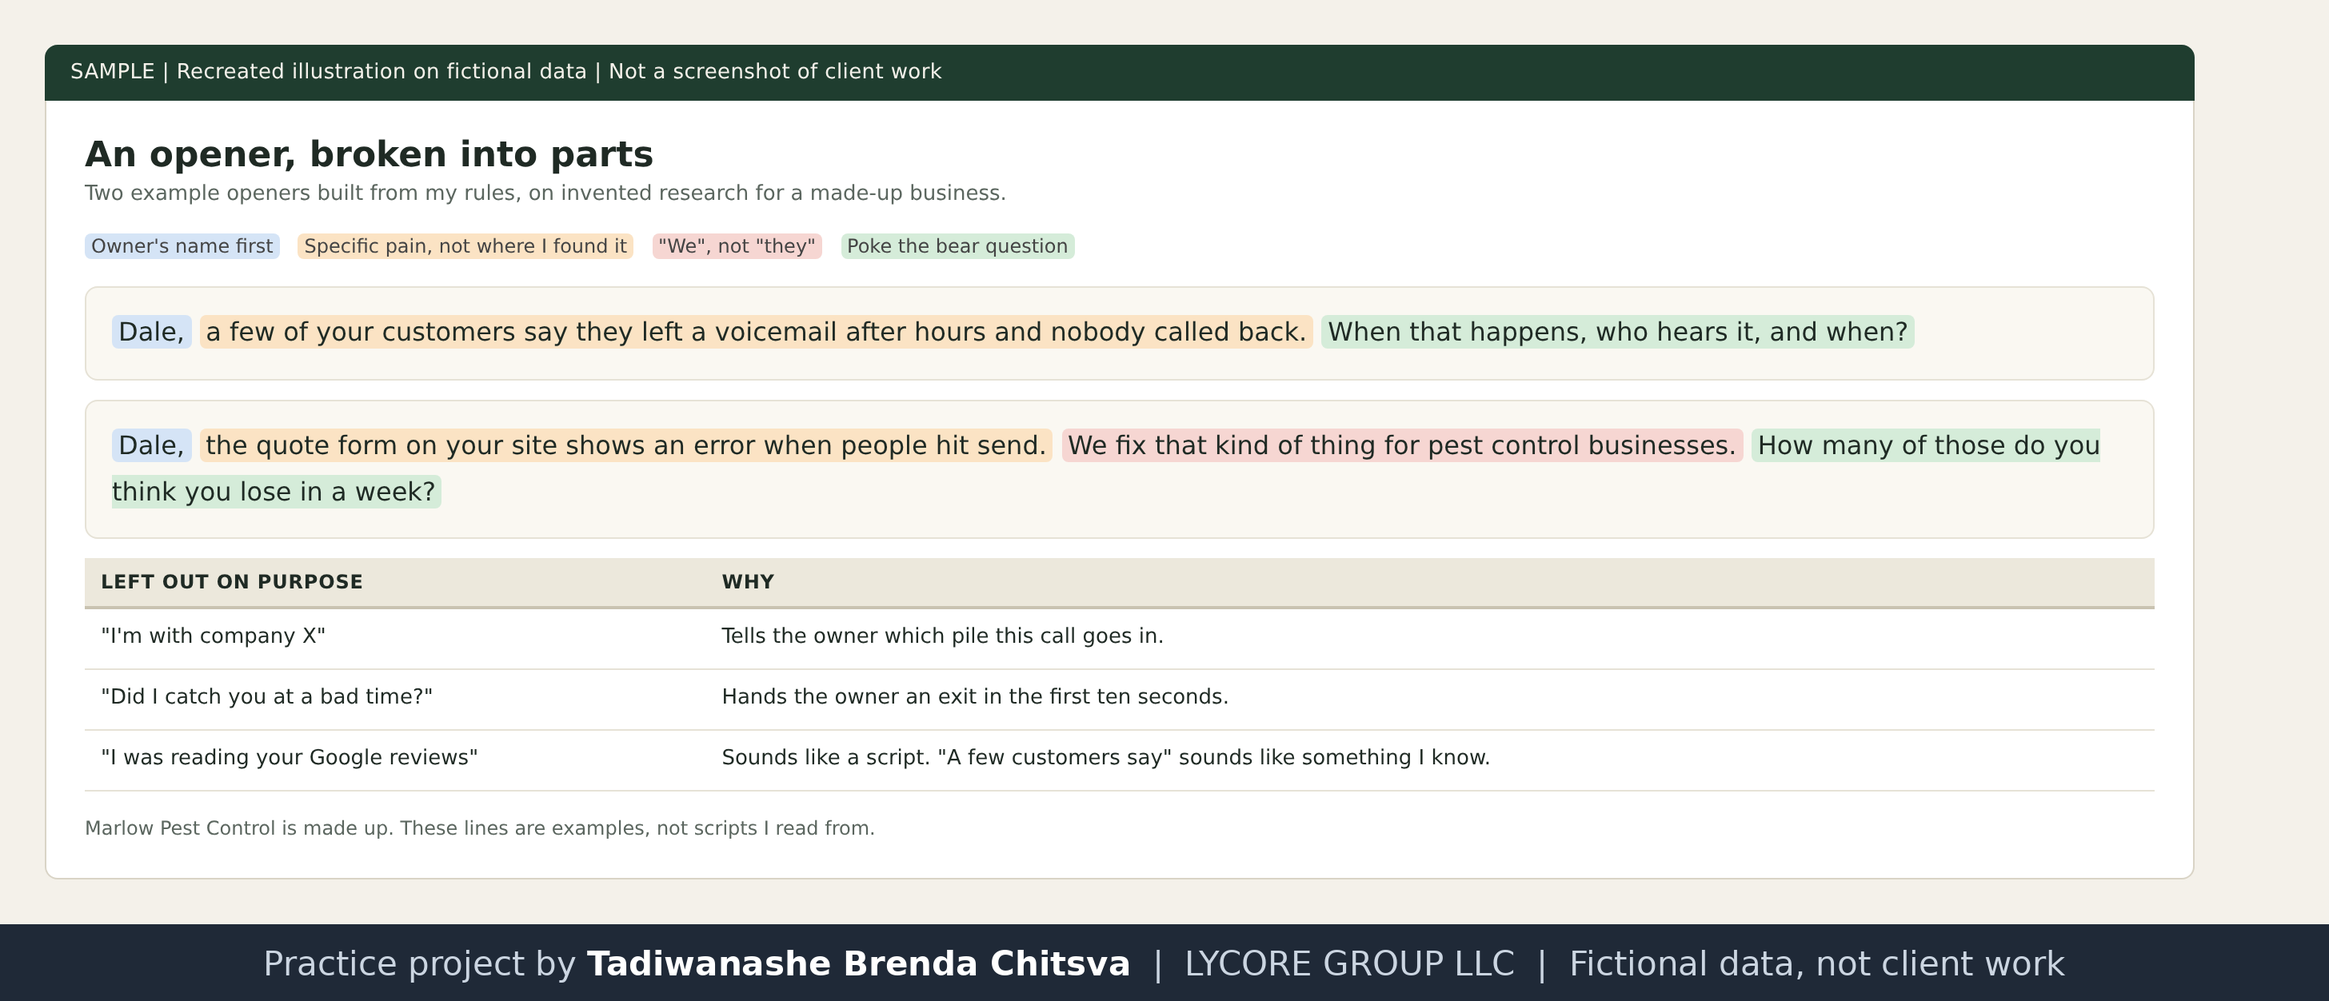
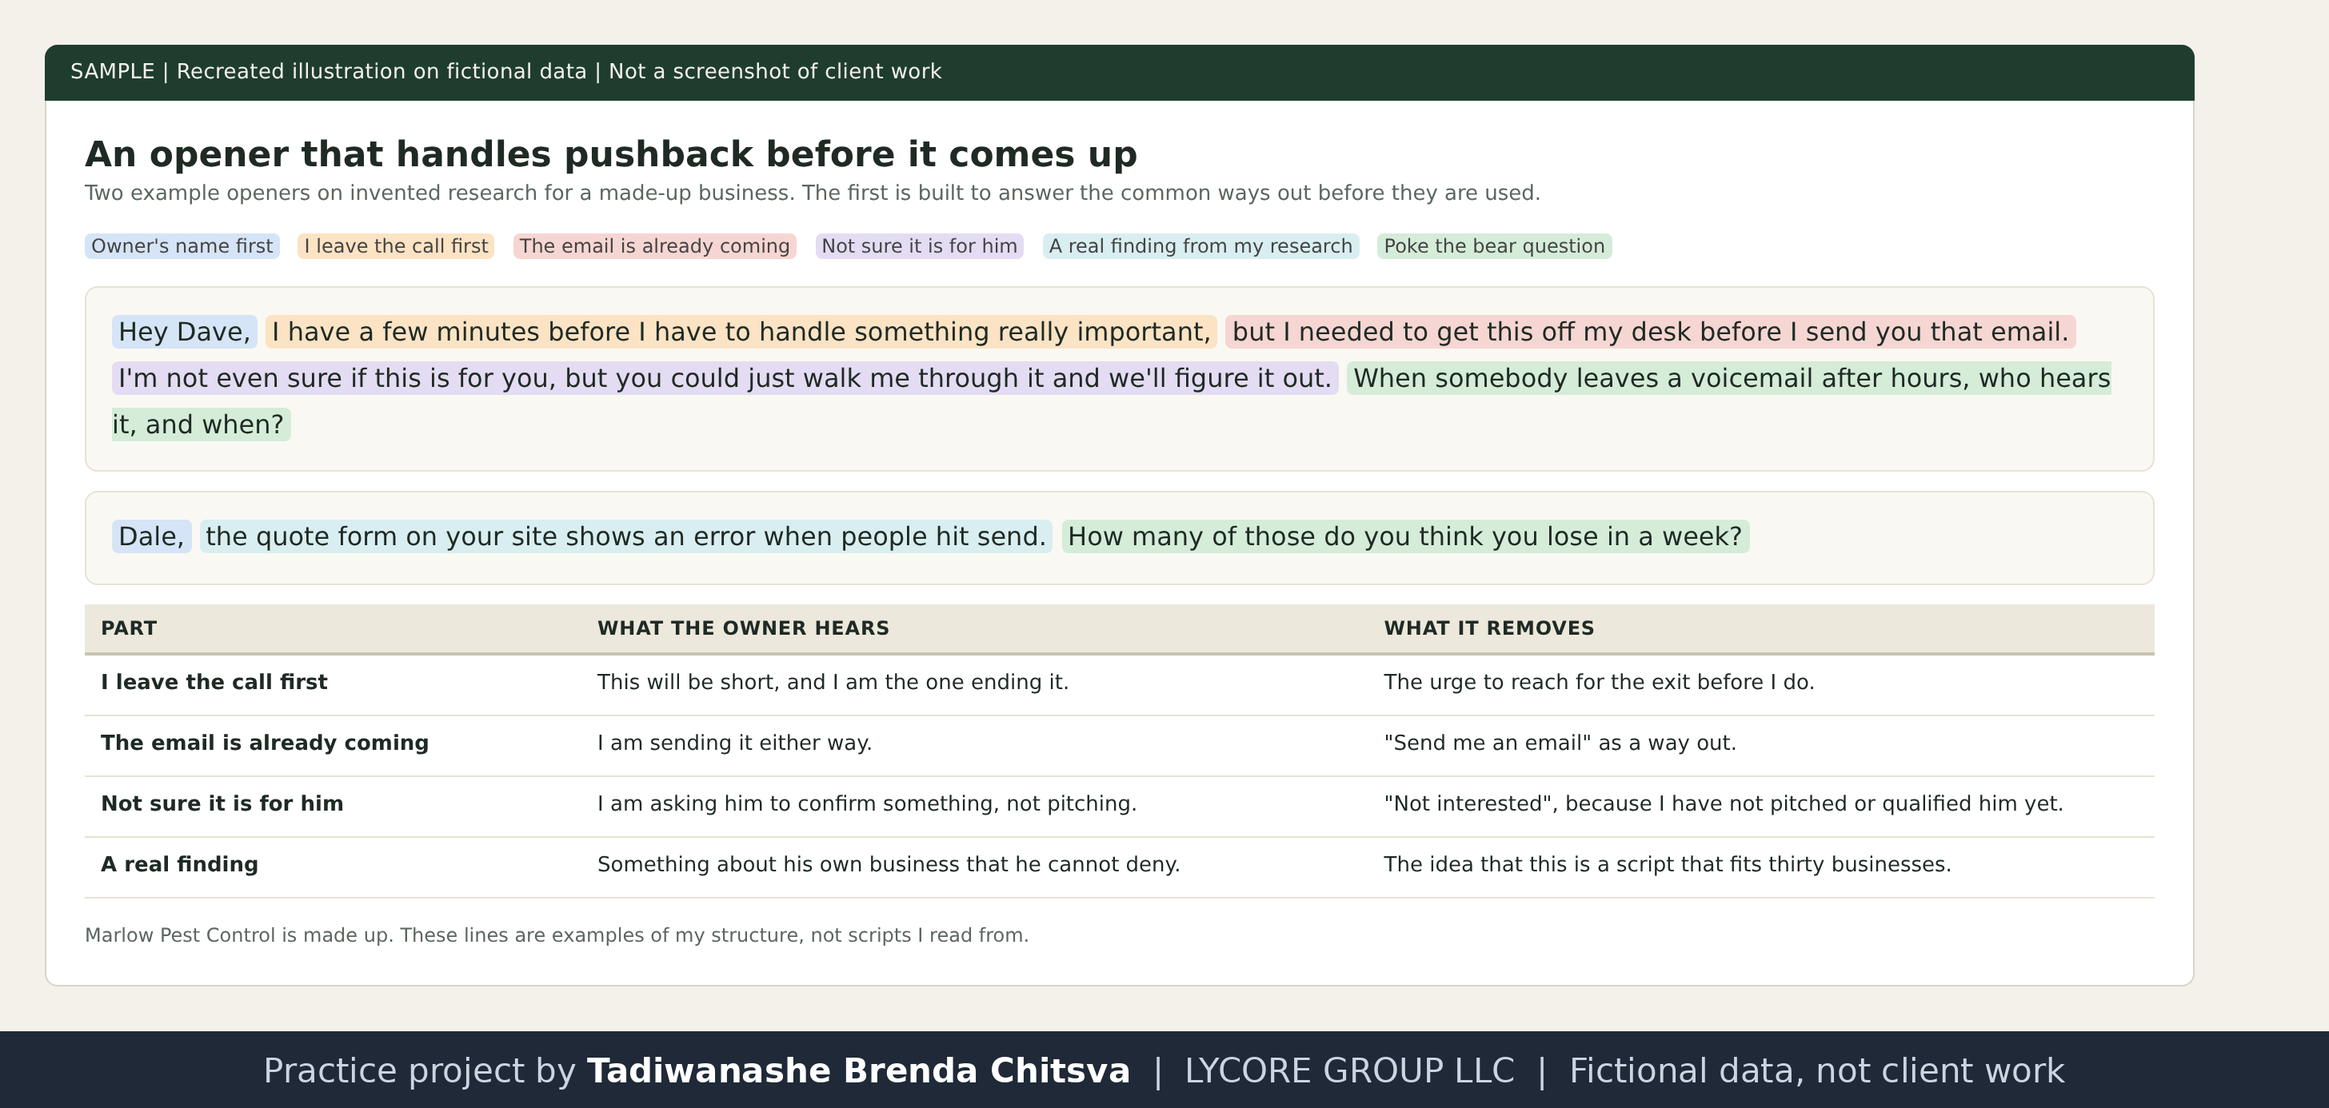
Improve sales and assistant portfolios: opener structure, enrichment, pushback replies, first questions
Claude-Session: https://claude.ai/code/session_01X1Efn6wUHyVAvhz7pDCFFg

diff --git a/projects/sales-03-openers-and-gatekeepers.md b/projects/sales-03-openers-and-gatekeepers.md
@@ -2,24 +2,32 @@
 
 Method page. The business, the owner and the examples are made up for this page. The rules are mine. This is not a results report. See [why these projects use made-up data](../CONFIDENTIALITY.md).
 
-## My rules for an opener
+## What I do: answer the pushback before it comes up
+Most calls end because the person has an easy way out in the first ten seconds. So the opener is built to take those exits away before they are used. Here is the structure, on a made-up owner:
+
+"Hey Dave, I have a few minutes before I have to handle something really important, but I needed to get this off my desk before I send you that email. I'm not even sure if this is for you, but you could just walk me through it and we'll figure it out."
+
+![An opener broken into its parts](../assets/sales-s5-opener-anatomy.png)
+Recreated illustration. Marlow Pest Control is made up.
+
+What each part does:
+1. **I leave the call first.** I tell him I have a few minutes, so I am the one who will end the call. He does not need to reach for the exit before I do.
+2. **The email is already coming.** I say I am about to send him that email, so "send me an email" is not available as a way out. The email is already on its way.
+3. **I am not sure it is for him.** I have not pitched him and I have not qualified him, so "not interested" has nothing to push against. I am asking him to confirm something for me, not to buy something.
+
+Then comes one question from my research, a poke the bear question about something real. See [research before the call](sales-02-research-before-the-call.md). When a client gives me a script, I keep to it and shape the first line inside it.
+
+## More rules for an opener
 1. **Name first.** I start with the owner's real name, found in my research, so the first thing they hear is their own name.
 2. **No company name up front.** An opener that starts with "I'm with company X" is burned. The owner has heard it dozens of times and stops listening at the company name.
 3. **Name the specific pain.** I say what customers are saying, not where I found it. "A few of your customers say they left a voicemail and nobody called back" sounds like something I know. "I was reading your Google reviews" sounds like a script.
 4. **Say we, not they.** When I describe what we do, I say we. I do not create distance between me and the work.
-5. **Test it with a poke the bear question.** Something real and a little uncomfortable, asked plainly, about the problem I found.
 
 ## Gatekeepers
 I open as if the owner picked up. I use the owner's researched name and the specific thing I am calling about, in the tone of an ordinary call. I do not ask permission to speak to anyone, I do not negotiate, and I do not accept the first no. A receptionist's no is a routine filter. It is not a decision the owner made.
-
-## Example on a made-up business
-![An opener broken into its parts](../assets/sales-s5-opener-anatomy.png)
-Recreated illustration. Marlow Pest Control is made up.
-
-The two lines in the picture are examples built from my rules on invented research. They are not scripts I read from.
 
 ## What I avoid and why
 The reasons are on the page [lines I avoid and why](sales-07-lines-i-avoid-and-why.md). In short, each line I avoid either hands the owner an easy exit in the first ten seconds, or tells them I am one more pitch.
 
 ## Honest level
-Openers and gatekeeper handling are how I call. I have placed cold calls to US service businesses. I have no conversion numbers to show.
+Openers and gatekeeper handling are how I call. I have placed cold calls to US service businesses. I have no conversion numbers to show, and the lines on this page are examples of my structure on made-up people.

diff --git a/README.md b/README.md
@@ -59,10 +59,10 @@ Seven method pages on how I prepare for and run cold calls to service businesses
 | Project | What it shows |
 | --- | --- |
 | [Mindset and posture before I dial](projects/sales-01-mindset-and-posture.md) | Why I go in as a helper, pacing to the person, three buyer states |
-| [Research before the call](projects/sales-02-research-before-the-call.md) | A research card on a made-up business: customer words, unanswered reviews, broken things, one poke the bear question |
-| [Openers and gatekeepers](projects/sales-03-openers-and-gatekeepers.md) | Five opener rules and how I treat a gatekeeper's first no |
+| [Research before the call](projects/sales-02-research-before-the-call.md) | How I enrich the data, a research card on a made-up business, and the tools I use |
+| [Openers and gatekeepers](projects/sales-03-openers-and-gatekeepers.md) | An opener that answers the common ways out before they are used, and how I treat a gatekeeper's first no |
 | [Discovery and product pivots](projects/sales-04-discovery-and-product-pivots.md) | Listening, question types in order, moving to a second product honestly |
-| [Objections](projects/sales-05-objections.md) | What common objections often hide and what my follow up question looks for |
+| [Objections](projects/sales-05-objections.md) | What common objections hide, my replies in my own words, and what I learn from the calls |
 | [Value first for busy owners](projects/sales-06-value-first-and-busy-owners.md) | Four meeting free ways to give value before asking for anything |
 | [Lines I avoid, and why](projects/sales-07-lines-i-avoid-and-why.md) | For each line: what it makes the person feel and what hurdle it creates |
 
@@ -72,7 +72,7 @@ Seven method pages on how I prepare for and run cold calls to service businesses
 | --- | --- | --- |
 | [![Research card](assets/sales-s1-research-card.png)](projects/sales-02-research-before-the-call.md) | [![Call flow](assets/sales-s2-call-flow.png)](projects/sales-04-discovery-and-product-pivots.md) | [![Objection map](assets/sales-s3-objection-map.png)](projects/sales-05-objections.md) |
 | [![Lines I avoid](assets/sales-s4-lines-i-avoid.png)](projects/sales-07-lines-i-avoid-and-why.md) | [![Opener anatomy](assets/sales-s5-opener-anatomy.png)](projects/sales-03-openers-and-gatekeepers.md) | [![Value ladder](assets/sales-s6-value-ladder.png)](projects/sales-06-value-first-and-busy-owners.md) |
-| [![Buyer states](assets/sales-s7-buyer-states.png)](projects/sales-01-mindset-and-posture.md) | | |
+| [![Buyer states](assets/sales-s7-buyer-states.png)](projects/sales-01-mindset-and-posture.md) | [![Pushback examples](assets/sales-s8-pushback-examples.png)](projects/sales-05-objections.md) | |
 
 Ideas from four books I study (The Sales Game, The Complete Sales Workbook, The NEPQ Black Book of Questions, The 7 Figure Sales Script) are summarised in my own words. No book text is copied.
 

diff --git a/projects/sales-05-objections.md b/projects/sales-05-objections.md
@@ -17,7 +17,25 @@ I work each objection three to four times in one call. The first answer to a que
 ![Objection map: what each one often hides and what I am trying to find out](../assets/sales-s3-objection-map.png)
 Recreated illustration. Example business is made up.
 
-The right hand column is what my follow up question is trying to find out. It is not a script, and I do not post word for word replies here.
+The right hand column is what my follow up question is trying to find out. My replies in my own words are in the next section.
+
+## What I say, in my own words
+![Five common ways out, my replies, and what each one does](../assets/sales-s8-pushback-examples.png)
+Recreated illustration. No real call or recording.
+
+- **"Not interested."** "The last time you were looking into this, what were you looking for that made you interested? And what would need to be happening now for you to be interested again?"
+- **"We already have someone."** "What's the one thing you really like about how it's handled now? If you could change one thing, what would it be? And when that happens, who ends up fixing it?"
+- **"Send me an email."** "Oh, absolutely. What are you hoping to find in the email that I haven't already answered for you here?" Then: "It sounds like there's still something you're unsure about. What question do you have? I might be able to clear that up for you right now."
+- **"Let me think about it."** "Usually when someone says that, there's still something they're uncertain about. What's that for you?"
+- **"How much is it?"** "Compared to what?"
+
+Each reply is a question, so the person ends up giving the reason themselves. I work each one three to four times in the same call.
+
+## When someone is not sure
+When someone says they are not sure, I try to find out why and what could be stopping them. How they describe a past decision also tells me something: whether they tend to put decisions off or act quickly.
+
+## What I learn from the calls
+I try to learn from every call. If you call 50 to 100 people, you quickly find out what the common objections are in that industry, what the businesses are looking for, and whether they share a problem. I write down the objections that keep coming up and use them to improve the script.
 
 ## Ideas from the books (my summary)
 - **The Sales Game:** the first objection is often fear or missing information, and a short, curious "what else" can move a person from a surface reason to the real one. It also says to prepare for the same ten to twenty objections again and again, because they repeat.

diff --git a/projects/sales-02-research-before-the-call.md b/projects/sales-02-research-before-the-call.md
@@ -7,6 +7,9 @@ Business owners today get a lot of cold pitches. My estimate is somewhere betwee
 
 So before I call, I do my own background check on the business. I look for the small things that do not add up, that need fixing, that are broken. I lead with those, because they are real problems that already exist and the owner cannot ignore them. Then I ask what they are doing about those issues.
 
+## How I enrich the data
+Before I dial I enrich my data. I look for additional things about the business: small inconsistencies and discrepancies, negative reviews if they exist, complaints, and anything that does not line up on their website. I use those facts because they are real problems that already exist. The owner cannot deny them. Then I match the poke the bear question I find to what I am about to offer, so the question and the offer belong together.
+
 ## What I collect
 I look for 8 to 20 words that the owner and their customers actually use, plus:
 - complaints, in reviews, forums and Reddit threads for that trade
@@ -31,6 +34,11 @@ What the card turns into on the call:
 - Specific details show that this call was made for them. A general line fits thirty businesses, and the owner can tell.
 - It changes what the call is about. The owner stops deciding whether I am a nuisance and starts deciding what to do about the problem.
 - A generic opening puts me on top of the pile of pitches they already ignore, and then every later sentence is heard as part of that pile.
+
+## Tools I use
+- **Apollo:** only to extract leads and company data. I have never used its dialer.
+- **Dialers:** I have dialed with the Smartlead dialer and Kixie, and I know RingCentral.
+- **CRMs:** HubSpot, Salesforce, Zoho and Pipedrive, plus Notion and Google Sheets for call logs.
 
 ## Rules I keep
 - Public business information only. No private accounts, no personal data about the owner beyond their public business role.

diff --git a/assets/README.md b/assets/README.md
@@ -45,8 +45,8 @@ These are **recreated illustrations** built from invented data, or **renders of 
 | --- | --- | --- |
 | `sales-s7-buyer-states.png` | [Mindset and posture](../projects/sales-01-mindset-and-posture.md) | Three buyer states and what I do in each |
 | `sales-s1-research-card.png` | [Research before the call](../projects/sales-02-research-before-the-call.md) | A research card on a made-up pest control business |
-| `sales-s5-opener-anatomy.png` | [Openers and gatekeepers](../projects/sales-03-openers-and-gatekeepers.md) | Two example openers split into their parts |
+| `sales-s5-opener-anatomy.png` | [Openers and gatekeepers](../projects/sales-03-openers-and-gatekeepers.md) | An opener that answers the common ways out, split into its parts |
 | `sales-s2-call-flow.png` | [Discovery and product pivots](../projects/sales-04-discovery-and-product-pivots.md) | The order of a call with example questions |
-| `sales-s3-objection-map.png` | [Objections](../projects/sales-05-objections.md) | What common objections often hide |
+| `sales-s3-objection-map.png`, `sales-s8-pushback-examples.png` | [Objections](../projects/sales-05-objections.md) | What common objections often hide, and my replies with what each one does |
 | `sales-s6-value-ladder.png` | [Value first](../projects/sales-06-value-first-and-busy-owners.md) | Four meeting free ways to give value |
 | `sales-s4-lines-i-avoid.png` | [Lines I avoid](../projects/sales-07-lines-i-avoid-and-why.md) | Each line, the feeling it causes and the hurdle it creates |

diff --git a/projects/ea-01-executive-week-and-trip.md b/projects/ea-01-executive-week-and-trip.md
@@ -25,6 +25,13 @@ Calendar events created and checked in three time zones. Flight and hotel search
 ## Possible with client access, not done
 Booking, adding confirmations to the calendar, flight status checks the evening before each leg, and a trip pack sent to the traveller.
 
+## What I would ask first
+Before doing this for a real executive I would ask:
+1. Which meetings can move, and which never move? I would mark them differently on the calendar.
+2. What is your travel rule: hotel cap, airline, seat, how early to arrive? I would write it down once and check every option against it.
+3. Who may I contact to reschedule on your behalf, and what do I say to them?
+I would write the answers down once and work from them, so I do not ask the same question twice.
+
 ## Tools and honest levels
 Google Calendar, Expedia search, Kiwi.com search: learning, used here for the first time on practice data. Google Drive: used.
 

diff --git a/projects/ea-06-documents-slides-and-designs.md b/projects/ea-06-documents-slides-and-designs.md
@@ -26,6 +26,13 @@ The three files open and render. The workbook has 34 formulas and no errors afte
 ## Possible with client access, not done
 Sending the invitation, sharing the board with a team, linking the board to a client's own tools and keeping the weekly update going week after week.
 
+## What I would ask first
+Before doing this for a real executive I would ask:
+1. Are there brand rules: logo, colours, fonts?
+2. Who approves a document or design before it leaves, and in what format do you want it, editable or PDF?
+3. Which files already exist that I should reuse, not rebuild?
+I would write the answers down once and work from them, so I do not ask the same question twice.
+
 ## Tools and honest levels
 Word, Excel and PowerPoint files: built as files here, not inside the Microsoft 365 apps. Canva and monday.com: learning, used for the first time on practice data. Google Sheets: used. Notion: daily use.
 

diff --git a/projects/ea-04-meeting-minutes-and-actions.md b/projects/ea-04-meeting-minutes-and-actions.md
@@ -20,6 +20,13 @@ The briefing note, agenda, calendar event, minutes, Asana tasks and draft.
 ## Possible with client access, not done
 Joining a real call, using a recording or a transcription tool, and sending the follow-up. No call took place. Zoom and Otter style tools have not been used.
 
+## What I would ask first
+Before doing this for a real executive I would ask:
+1. Who approves the minutes before they go out, and how fast?
+2. Where are minutes filed, and who can see them?
+3. Which actions do you want tracked, and who chases the owners?
+I would write the answers down once and work from them, so I do not ask the same question twice.
+
 ## Tools and honest levels
 Google Calendar and Asana: learning, used here for the first time on practice data. Google Drive and Gmail drafts: used.
 

diff --git a/projects/ea-03-client-onboarding-board.md b/projects/ea-03-client-onboarding-board.md
@@ -23,6 +23,13 @@ The Trello board, the Asana project, the checklists and the draft.
 ## Possible with client access, not done
 Sending the welcome email, sharing the folder, chasing the client and updating the board as items land.
 
+## What I would ask first
+Before doing this for a real executive I would ask:
+1. Who is the client's day to day contact, and who signs off decisions?
+2. Which tool does the client's team already use? I would work in theirs where I can.
+3. What does the client need to see by the kickoff call to feel it went well?
+I would write the answers down once and work from them, so I do not ask the same question twice.
+
 ## Tools and honest levels
 Trello and Asana: learning, used here for the first time on practice data. Gmail drafts and Google Drive: used.
 

diff --git a/how-i-work.md b/how-i-work.md
@@ -29,6 +29,12 @@ I work from Harare (UTC+2). Every time I write down is shown in both your zone a
 - Daily: morning brief, inbox sorted into five groups
 - Friday: one page weekly update, open actions with owners and dates
 
+## The first week with a new executive
+- **Day 1:** shared access to only what the first tasks need, plus the written rules: what I may send, what waits for a yes, who I may contact.
+- **Day 2:** a baseline. Calendar conflicts list, inbox sorted into the five groups, open actions with owners.
+- **Day 3:** the first morning brief, trimmed to what you actually read.
+- **Day 5:** the first one page weekly update, and a short review: what to keep, what to change.
+
 ## Handover template
 Use this when a task changes hands or pauses.
 

diff --git a/projects/ea-05-offsite-budget.md b/projects/ea-05-offsite-budget.md
@@ -24,6 +24,13 @@ The shortlist, the budget sheet with formulas, the run of show.
 ## Possible with client access, not done
 Asking hotels for quotes, booking, collecting dietary needs and tracking real spend.
 
+## What I would ask first
+Before doing this for a real executive I would ask:
+1. Is the cap a total or per person, and what is flexible: dates, place or headcount?
+2. Who signs off a booking before any deposit is paid?
+3. What must the venue have, and what would you swap for a lower price?
+I would write the answers down once and work from them, so I do not ask the same question twice.
+
 ## Tools and honest levels
 Google Sheets: used. Notion: daily use. Expedia search and Canva: learning.
 

diff --git a/projects/ea-02-inbox-triage.md b/projects/ea-02-inbox-triage.md
@@ -25,6 +25,13 @@ The Notion log, the three drafts and the brief, all on fictional data.
 ## Possible with client access, not done
 Reading a real inbox, applying labels, forwarding to the right team and learning the executive's own preferences.
 
+## What I would ask first
+Before doing this for a real executive I would ask:
+1. Which senders always reach you, whatever the hour?
+2. What may I answer myself, and what always waits for your yes?
+3. When do you read the morning brief, and how long should it be?
+I would write the answers down once and work from them, so I do not ask the same question twice.
+
 ## Tools and honest levels
 Notion: daily use. Gmail drafts and Google Drive: used.
 
